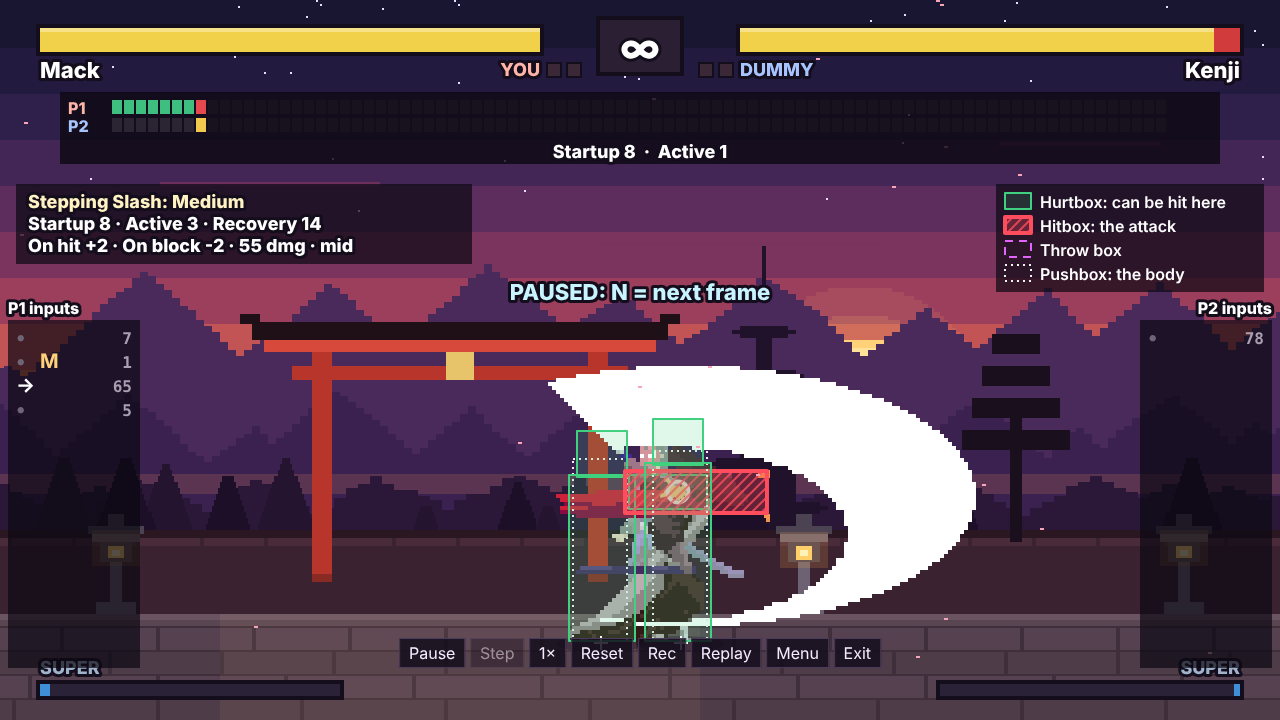
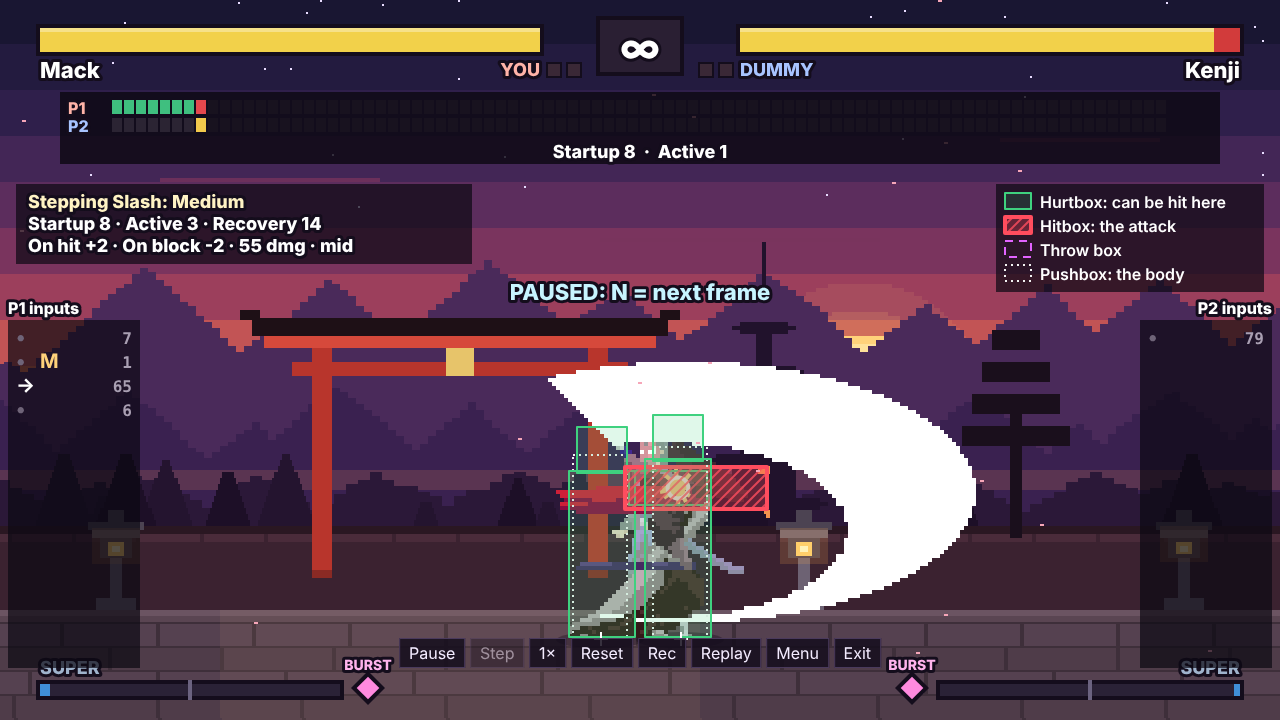
docs: parry, guard cancel and burst in FRAME-DATA.md and the README
A FRAME-DATA.md section on the three rules with a frame diagram of a
parry; the frame data tables regenerated (each character's guard cancel
and burst); the README's controls table, how-to-play notes and training
dummy options; screenshots regenerated (the HUD's meter mark and burst
diamond).

Claude-Session: https://claude.ai/code/session_0133ci3TEjBPLBP2vctkLhz4

diff --git a/src/game/scenes/menus.js b/src/game/scenes/menus.js
@@ -105,7 +105,7 @@ export function openMoveList(app, first = roster[0]) {
       h('td', { class: 'num' }, '—'),
       h('td', { class: 'num' }, '—'),
       h('td', { class: 'num' }, '—'),
-      h('td', {}, 'parry'));
+      h('td', {}, '—'));
     panel.replaceChildren(
       h('p', { class: 'char-blurb' }, h('strong', {}, `${ch.name}, ${ch.title}. `), `${ch.style}. ${ch.blurb}`),
       h('p', { class: 'fine' }, 'How to read the inputs: they are written for facing right, so → means toward your opponent. When you face left, swap left and right. ',

diff --git a/docs/FRAME-DATA.md b/docs/FRAME-DATA.md
@@ -31,7 +31,7 @@ Contents:
 6. [Hit-stop](#6-hit-stop)
 7. [The input buffer](#7-the-input-buffer)
 8. [Motion inputs](#8-motion-inputs)
-9. [Blocking, throws and throw escapes](#9-blocking-throws-and-throw-escapes)
+9. [Blocking, throws and throw escapes](#9-blocking-throws-and-throw-escapes), and [parry, guard cancel and burst](#parry-guard-cancel-and-burst)
 10. [Combos: cancels, damage scaling, the juggle limit](#10-combos-cancels-damage-scaling-the-juggle-limit)
 11. [The training mode: showing the invisible](#11-the-training-mode-showing-the-invisible)
 12. [How the numbers are kept honest](#12-how-the-numbers-are-kept-honest)
@@ -393,6 +393,55 @@ opponent behind you.
 
 ([tests/combat.test.js](../tests/combat.test.js) covers each case.)
 
+### Parry, guard cancel and burst
+
+Three defensive rules shared by every character, with their numbers in
+[config.js](../src/game/data/config.js) (`parry`, `guardCancel`, `burst`).
+
+**Parry (M+H).** For its first **6 frames** a parry catches any strike or
+projectile that would hit you: standing, highs and mids; crouching, lows
+and mids. The hit does nothing. Both fighters freeze for 12 frames, then
+you are free at once while the attacker finishes the move:
+
+```
+attacker:  s s s s s s s A r r r r r r r r r r r r r r r r |      (Mack 5M, parried on frame 8)
+defender:          p p p P|free ........................ |      ← acts 16 frames first
+                           └ the hit, parried: 12 frozen frames, not shown
+```
+
+So a parried move is as punishable as its rest (`total − hit frame`, 16
+for Mack's 5M), which is the reward for reading it. A parry that catches
+nothing is stuck for **20 more frames** (26 in all), long enough for most
+moves to punish, and a throw beats it outright: mashing it loses. Multi-hit
+moves need a parry per hit: after each one you are free, so press it again
+for the next. The parrying fighter gains a little meter (50).
+
+Like a throw, the parry is read from both buttons pressed within 3 frames
+of each other (`findChordPress` in [motion.js](../src/engine/sim/motion.js));
+L+M+H is not read as a parry.
+
+**Guard cancel (M+H while blocking).** Costs half the meter. Each character
+has their own guard-cancel move (`GC`, its own animation and hitbox), with
+the same frame data for everyone: startup 6, invincible until its last
+active frame, 40 damage and a knockdown, and **−21 on block**. It builds no
+meter for either side. It's the way out of pressure; using it into a block
+loses half a meter and the round's momentum.
+
+**Burst (L+M+H while being hit).** Once a round (in training, it comes
+back when your health refills). Each character's `burst`: invincible until
+its last active frame, a hitbox all around you (reaching down, for a burst
+in the air) that knocks the attacker away with no damage. It can be
+**blocked**, and then it's −21: an attacker who expects it stops the combo,
+blocks, and punishes. Its frame data is in the tables below.
+
+[tests/defence.test.js](../tests/defence.test.js) plays all three in the
+simulation: the parry window, the advantage after a parry, standing parries
+missing lows, a whiffed parry being punished, a throw beating a parry, a
+projectile parried, a **perfect parrier against every hit of every
+grounded strike of every character**, guard cancel costs and invincibility,
+bursts once a round, in the air, and blocked and punished, and a save and
+load mid-match with all three in play.
+
 ---
 
 ## 10. Combos: cancels, damage scaling, the juggle limit
@@ -509,6 +558,8 @@ throws, can't be blocked, so they have no block advantage.
 | `623+M` | Tenkū (M) | 5 | 8 | 26 | KD +42 | -17 | 110 | mid |
 | `623+H` | Tenkū (H) | 6 | 8 | 28 | KD +44 | -16 | 130 | mid |
 | `236236+H` | Kazekiri: Hundred Gales | 6 | 15 | 30 | KD +45 | -16 | 330 | mid |
+| `M+H (blocking)` | Guard Cancel | 6 | 4 | 30 | KD +12 | -21 | 40 | mid |
+| `L+M+H (being hit)` | Burst | 8 | 6 | 36 | KD +32 | -21 | 0 | mid |
 
 #### Kenji (Footsies and zoning)
 
@@ -532,6 +583,8 @@ throws, can't be blocked, so they have no block advantage.
 | `[4]6+M` | Iai Rush (M) | 10 | 4 | 20 | -1 | -7 | 90 | mid |
 | `[4]6+H` | Iai Rush (H) | 11 | 4 | 20 | KD +22 | -7 | 100 | mid |
 | `236236+H` | Tsukiotoshi: Falling Moon | 10 | — | 34 | — | — | 280 | mid |
+| `M+H (blocking)` | Guard Cancel | 6 | 4 | 30 | KD +12 | -21 | 40 | mid |
+| `L+M+H (being hit)` | Burst | 8 | 6 | 36 | KD +32 | -21 | 0 | mid |
 
 #### Deka (Brawler)
 
@@ -555,6 +608,8 @@ throws, can't be blocked, so they have no block advantage.
 | `623+M` | Rising Crescent (M) | 6 | 8 | 27 | KD +41 | -18 | 115 | mid |
 | `623+H` | Rising Crescent (H) | 7 | 8 | 29 | KD +43 | -17 | 140 | mid |
 | `236236+H` | Thousand Crescents | 7 | 16 | 31 | KD +43 | -18 | 325 | mid |
+| `M+H (blocking)` | Guard Cancel | 6 | 4 | 30 | KD +12 | -21 | 40 | mid |
+| `L+M+H (being hit)` | Burst | 8 | 6 | 36 | KD +32 | -21 | 0 | mid |
 
 #### Elumlur (All-rounder)
 
@@ -578,6 +633,8 @@ throws, can't be blocked, so they have no block advantage.
 | `623+M` | Thunder Rise (M) | 5 | 8 | 26 | KD +42 | -17 | 105 | mid |
 | `623+H` | Thunder Rise (H) | 6 | 8 | 28 | KD +44 | -16 | 125 | mid |
 | `236236+H` | Storm Arc | 8 | 18 | 30 | KD +49 | -16 | 300 | mid |
+| `M+H (blocking)` | Guard Cancel | 6 | 4 | 30 | KD +12 | -21 | 40 | mid |
+| `L+M+H (being hit)` | Burst | 8 | 6 | 36 | KD +32 | -21 | 0 | mid |
 
 #### Mav (Heavy grappler)
 
@@ -601,6 +658,8 @@ throws, can't be blocked, so they have no block advantage.
 | `236+M` | Crown Cleave (M) | 15 | 4 | 22 | -3 | -10 | 100 | mid |
 | `236+H` | Crown Cleave (H) | 16 | 4 | 22 | KD +20 | -10 | 115 | mid |
 | `236236+H` | Regicide | 9 | 14 | 32 | KD +42 | -19 | 320 | mid |
+| `M+H (blocking)` | Guard Cancel | 6 | 4 | 30 | KD +12 | -21 | 40 | mid |
+| `L+M+H (being hit)` | Burst | 8 | 6 | 36 | KD +32 | -21 | 0 | mid |
 
 #### Reroe (Spear zoner)
 
@@ -624,6 +683,8 @@ throws, can't be blocked, so they have no block advantage.
 | `214+M` | Fading Sweep (M) | 10 | 3 | 18 | -1 | -5 | 65 | mid |
 | `214+H` | Fading Sweep (H) | 10 | 3 | 18 | -1 | -5 | 70 | mid |
 | `236236+H` | Hunter’s Volley | 11 | — | 34 | — | — | 280 | mid |
+| `M+H (blocking)` | Guard Cancel | 6 | 4 | 30 | KD +12 | -21 | 40 | mid |
+| `L+M+H (being hit)` | Burst | 8 | 6 | 36 | KD +32 | -21 | 0 | mid |
 
 The supers' damage is before scaling; Kazekiri's five hits are scaled as a
 combo (330 listed, 253 dealt from a clean start).

diff --git a/README.md b/README.md
@@ -147,6 +147,8 @@ Choose **Training → Free training**, walk up to the dummy and attack it. Then:
   - stand, crouch or jump;
   - block nothing, everything, or everything after the first hit;
   - escape throws;
+  - parry every hit, guard-cancel out of blocks, or burst on the second
+    hit of a combo;
   - **record and play back** whatever you make it do (O to record, Y to
     replay).
 
@@ -168,12 +170,22 @@ diagrams.
 | Move, jump, crouch | W A S D | Arrow keys | D-pad / left stick | Left thumb (the stick appears where you touch) |
 | Light / Medium / Heavy | J / K / L | Num 1 / 2 / 3 (or , . /) | X / Y / B | L / M / H |
 | Throw (L+M) | U | Num 4 (or ;) | A | Throw |
+| Parry / guard cancel (M+H) | H | Num 6 (or M) | LB | Parry |
+| Burst (L+M+H) | E | Num 0 (or \\) | RT | Burst |
 | Easy special | I | Num 5 (or ') | RB | Special |
 | Pause | Esc | Esc | Menu / Options | II |
 
 - **Blocking.** Hold back to block. Hold down-back to block lows; stand to
   block overheads and jump-ins.
 - **Moving.** Tap forward twice to dash.
+- **Parry** (M+H) just before a hit lands: standing for highs and mids,
+  crouching for lows. The hit does nothing and you act first. Mistime it
+  and you're open; throws beat it.
+- **Guard cancel** (M+H while blocking) strikes back out of a block for
+  half your meter. **Burst** (L+M+H while being hit) breaks a combo, once
+  a round, but it can be blocked. The tutorial has a lesson on all three,
+  and [docs/FRAME-DATA.md](docs/FRAME-DATA.md#parry-guard-cancel-and-burst)
+  has the numbers.
 - **Specials** are in the move list (title screen or pause menu). Each
   move says exactly what to press on your keyboard and on a controller,
   using your own key settings: for example, Shippū is "S, S+D, D, then K"
